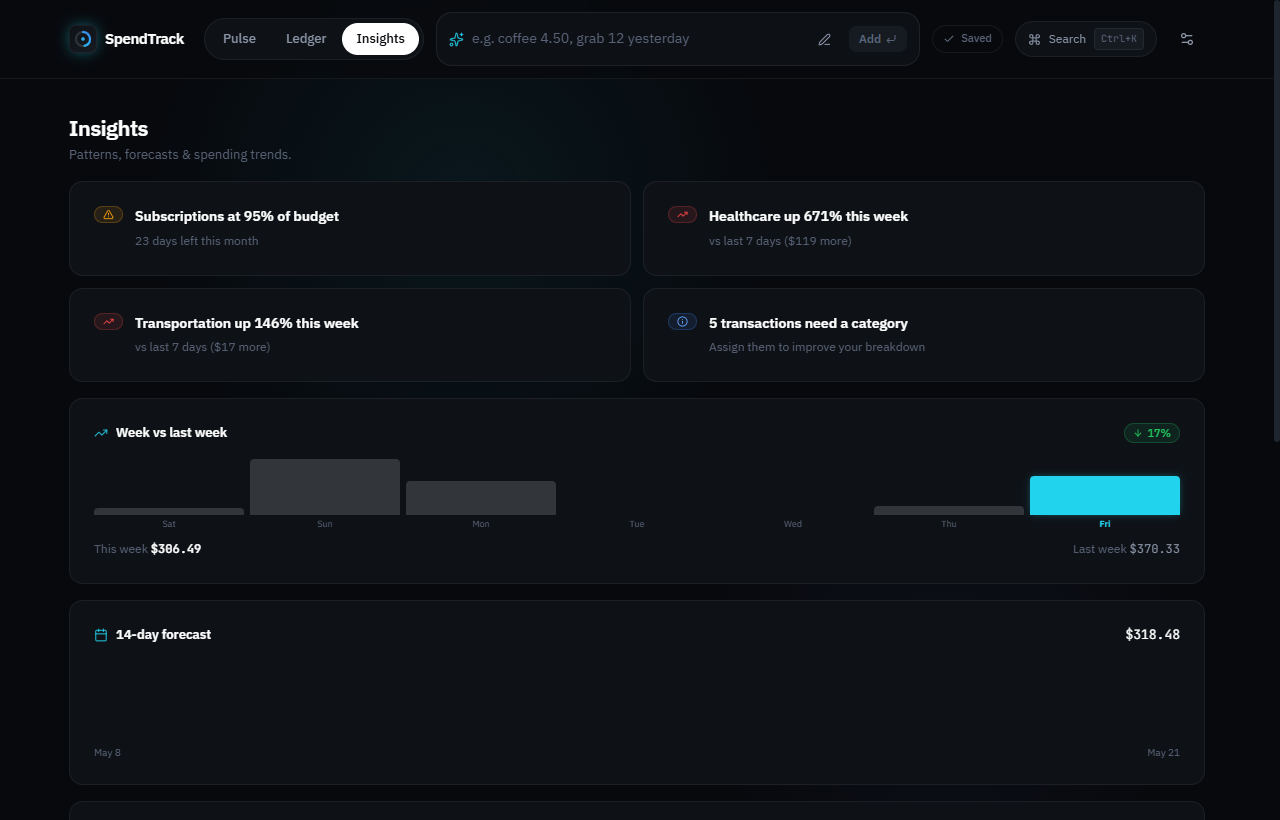
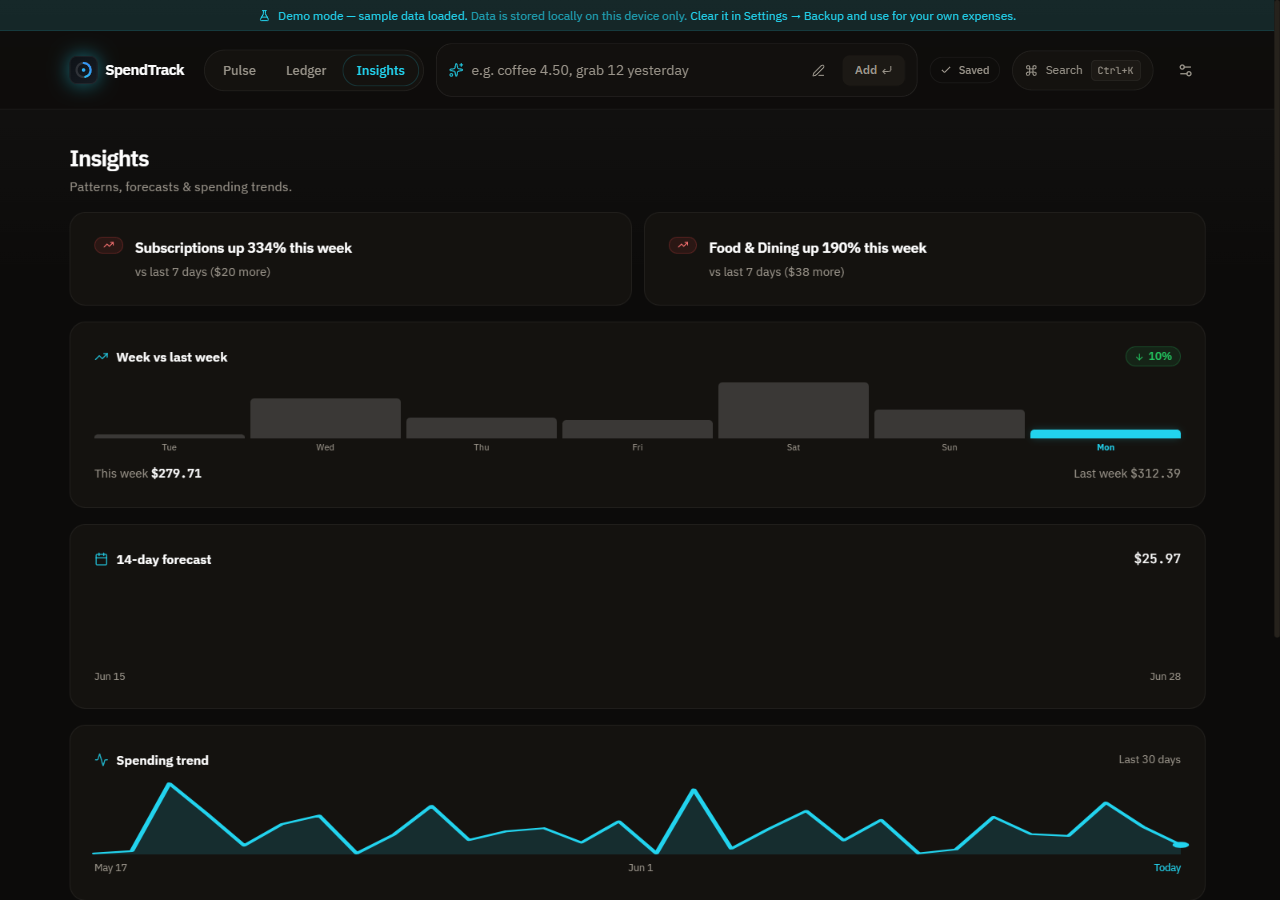
docs(readme): refresh for v0.8.3 — theming, currency, redesign, virtualization (#27)
- Add Light/Dark/System theming + 8-currency support to highlights, why-list,
  tech stack, and FAQ; drop the stale "OLED-near-black theme" wording
- Note ledger virtualization (@tanstack/react-virtual) in highlights, stability,
  and tech stack
- Fix stale numbers: tests 53→39, main bundle 86/83.7→81 KB gzip (consistent
  everywhere); audit badge unchanged (still 0)
- Re-capture all four screenshots against the current warm dark redesign (were
  pre-redesign, dated May 8)
- Roadmap: add theming, multi-currency, redesign, virtualization as shipped
- Sync setup: mention migration 003 (search_path hardening)

diff --git a/README.md b/README.md
@@ -14,8 +14,8 @@
   <img src="https://img.shields.io/badge/React-19-61DAFB?style=flat-square&logo=react&logoColor=black" alt="React 19" />
   <img src="https://img.shields.io/badge/TypeScript-Strict-3178C6?style=flat-square&logo=typescript&logoColor=white" alt="TypeScript" />
   <img src="https://img.shields.io/badge/PWA-Installable-8B5CF6?style=flat-square" alt="PWA" />
-  <img src="https://img.shields.io/badge/bundle-86%20KB%20gzip-22C55E?style=flat-square" alt="Bundle 86 KB gzip" />
-  <img src="https://img.shields.io/badge/tests-53%20passing-22C55E?style=flat-square" alt="53 tests passing" />
+  <img src="https://img.shields.io/badge/bundle-81%20KB%20gzip-22C55E?style=flat-square" alt="Bundle 81 KB gzip" />
+  <img src="https://img.shields.io/badge/tests-39%20passing-22C55E?style=flat-square" alt="39 tests passing" />
   <img src="https://img.shields.io/badge/audit-0%20vulns-22C55E?style=flat-square" alt="0 vulnerabilities" />
   <img src="https://img.shields.io/badge/license-MIT-22D3EE?style=flat-square" alt="MIT" />
 </p>
@@ -47,6 +47,7 @@ Most personal-finance apps are built around syncing, subscriptions, and dashboar
 - **Offline-first.** Your data lives on your device, in your browser — not on a server. No account, no telemetry, no cloud (until _you_ opt in).
 - **Friction-free entry.** Type `coffee 4.50 yesterday` and it's in. The smart parser infers item, amount, date, and category from one line.
 - **Real-time pacing.** A live month-pace ring tells you whether you're on track without opening a spreadsheet.
+- **Yours to theme.** Light, Dark, and System themes — a warm, soft palette that's AA-clean in both. Pick from 8 currencies.
 - **Optional cross-device sync.** A single UUID code pairs your phone and laptop — no accounts, no passwords, paste once and you're done.
 - **Production-grade.** Strict TypeScript, a passing Vitest suite, sub-100 KB gzipped initial JS, fully PWA-installable.
 
@@ -64,9 +65,10 @@ Most personal-finance apps are built around syncing, subscriptions, and dashboar
 | --------------------- | ---------------------------------------------------------------------------------------------------------------------------- |
 | **Smart entry**       | Natural-language parser → category, amount, date inferred from one line                                                      |
 | **Pulse dashboard**   | Month/year totals, daily-pace ring, sparkline trend, category mix, 14-week activity heatmap                                  |
-| **Ledger**            | Search, filter, edit, undo. Multi-criteria filters live in the URL so views are bookmarkable                                 |
+| **Ledger**            | Search, filter, edit, undo. Multi-criteria filters live in the URL so views are bookmarkable. List virtualizes past 150 rows |
 | **Insights**          | Recurring-charge detection, 14-day forecast, week-over-week comparisons, anomaly callouts                                    |
 | **Budgets**           | Per-category monthly caps with side-by-side actual-vs-budget bars                                                            |
+| **Theming**           | Light / Dark / System — a warm, soft palette (AA-clean in both themes). 8 selectable currencies                              |
 | **Cross-device sync** | Optional. UUID code pairs devices. Per-expense Last-Write-Wins merge. Tombstone-safe deletes. Realtime push.                 |
 | **PWA**               | Installable on iOS & Android. Works fully offline. CSS-keyframe route transitions (no React-state animations that can stall) |
 | **Privacy**           | No account. No analytics. No tracking. Data is local unless you generate a sync code                                         |
@@ -181,7 +183,7 @@ See [`src/services/syncService.ts`](src/services/syncService.ts) for the merge l
 
 |                               |                                                         |
 | ----------------------------- | ------------------------------------------------------- |
-| Main bundle (gzip)            | **83.7 KB**                                             |
+| Main bundle (gzip)            | **81 KB**                                               |
 | Total initial download (gzip) | ~190 KB                                                 |
 | Settings drawer               | code-split (lazy)                                       |
 | Supabase JS SDK               | lazy `import()` — only loaded when sync is configured   |
@@ -192,6 +194,7 @@ See [`src/services/syncService.ts`](src/services/syncService.ts) for the merge l
 
 - Strict TypeScript, no `any`
 - Passing Vitest unit suite across core parsing, analytics, storage, and sync logic
+- Ledger virtualizes beyond 150 rows (`@tanstack/react-virtual`) — scales to thousands of entries without dropping frames
 - CI smoke test boots `vite preview` and asserts all 4 routes + service worker + manifest
 - Storage quota errors are caught and surfaced as a user toast (never silent data loss)
 - JSON import: 8 MB file cap, deep schema validation, hostile-data-safe
@@ -210,7 +213,7 @@ If you do want phone ↔ laptop sync, here's the full flow:
 You need your own free Supabase project. This is what stores the synced data — no third-party sees it. Plan ~5 minutes.
 
 1. Sign up at [supabase.com](https://supabase.com) and create a project.
-2. In the project's **SQL Editor**, paste and run [`supabase/migrations/001_sync.sql`](supabase/migrations/001_sync.sql). Optionally also run [`002_sync_indexes.sql`](supabase/migrations/002_sync_indexes.sql) for retention helpers. The helper only creates a manual pruning function; schedule it yourself if you want automatic 90-day cleanup.
+2. In the project's **SQL Editor**, run [`supabase/migrations/001_sync.sql`](supabase/migrations/001_sync.sql), then [`002_sync_indexes.sql`](supabase/migrations/002_sync_indexes.sql) (index + retention helper) and [`003_harden_prune_search_path.sql`](supabase/migrations/003_harden_prune_search_path.sql) (pins `search_path` on the prune function). The helper only creates a manual pruning function; schedule it yourself if you want automatic 90-day cleanup.
 3. From **Project Settings → API**, copy the **Project URL** and the **anon public** key.
 4. Add them as env vars on Vercel (or in `.env.local` if you self-host):
    ```bash
@@ -323,6 +326,12 @@ Settings → Backup → <b>Download JSON backup</b>. On the new browser, Setting
 </details>
 
 <details>
+<summary><b>Can I switch themes or change the currency?</b></summary>
+<br/>
+Yes. Settings → <b>Appearance</b> offers <b>Light</b>, <b>Dark</b>, and <b>System</b> (follows your OS). The palette is warm and soft, and stays WCAG-AA legible in both themes. Currency is a separate setting with 8 options (USD, SGD, EUR, GBP, JPY, AUD, CAD, and more) — amounts reformat instantly everywhere.
+</details>
+
+<details>
 <summary><b>Is my data encrypted?</b></summary>
 <br/>
 In transit (HTTPS to Supabase): yes. At rest in <code>localStorage</code> or Supabase: no, it's plain JSON. Treat your sync code as a password — that's the security boundary.
@@ -369,19 +378,20 @@ This was a real bug fixed in v0.5.0 (PR #9). If you see it on the deployed site,
 
 ## Tech stack
 
-| Layer     | Tools                                                           |
-| --------- | --------------------------------------------------------------- |
-| Framework | React 19, TypeScript (strict), Vite                             |
-| Styling   | Tailwind CSS, CSS custom properties (OLED-near-black theme)     |
-| State     | Zustand + `subscribeWithSelector`                               |
-| Routing   | React Router v7                                                 |
-| Animation | framer-motion (sparingly — CSS keyframes for route transitions) |
-| Search    | Fuse.js (smart-entry parser)                                    |
-| Dates     | date-fns                                                        |
-| Sync      | Supabase Postgres + Realtime (lazy-loaded, opt-in)              |
-| PWA       | vite-plugin-pwa, Workbox                                        |
-| Testing   | Vitest, Testing Library, curl-based preview smoke               |
-| Deploy    | Vercel                                                          |
+| Layer     | Tools                                                                        |
+| --------- | ---------------------------------------------------------------------------- |
+| Framework | React 19, TypeScript (strict), Vite                                          |
+| Styling   | Tailwind CSS, CSS custom properties (warm, soft palette · Light/Dark/System) |
+| State     | Zustand + `subscribeWithSelector`                                            |
+| Routing   | React Router v7                                                              |
+| Lists     | @tanstack/react-virtual (ledger windowing past 150 rows)                     |
+| Animation | framer-motion (sparingly — CSS keyframes for route transitions)              |
+| Search    | Fuse.js (smart-entry parser)                                                 |
+| Dates     | date-fns                                                                     |
+| Sync      | Supabase Postgres + Realtime (lazy-loaded, opt-in)                           |
+| PWA       | vite-plugin-pwa, Workbox                                                     |
+| Testing   | Vitest, Testing Library, curl-based preview smoke                            |
+| Deploy    | Vercel                                                                       |
 
 ---
 
@@ -407,7 +417,10 @@ docs/           user guide, screenshots
 ## Roadmap & changelog
 
 - ✅ Cross-device sync (Supabase relay, UUID pairing, LWW merge, tombstones)
-- ✅ Performance pass — main bundle 83.7 KB gzip (−41% from initial); Supabase + Settings lazy-loaded
+- ✅ Light / Dark / System theming + 8-currency support
+- ✅ Warmer/softer visual redesign across all four surfaces (AA-clean in both themes)
+- ✅ Ledger virtualization (`@tanstack/react-virtual`) — scales to thousands of rows
+- ✅ Performance pass — main bundle 81 KB gzip; Supabase + Settings lazy-loaded
 - ✅ Rapid-nav blank-render bug eliminated — 290 stress-test iterations, 0 blanks
 - ✅ Storage quota toast + JSON import schema validation
 - ✅ Production CI smoke test on every route + service worker + manifest
